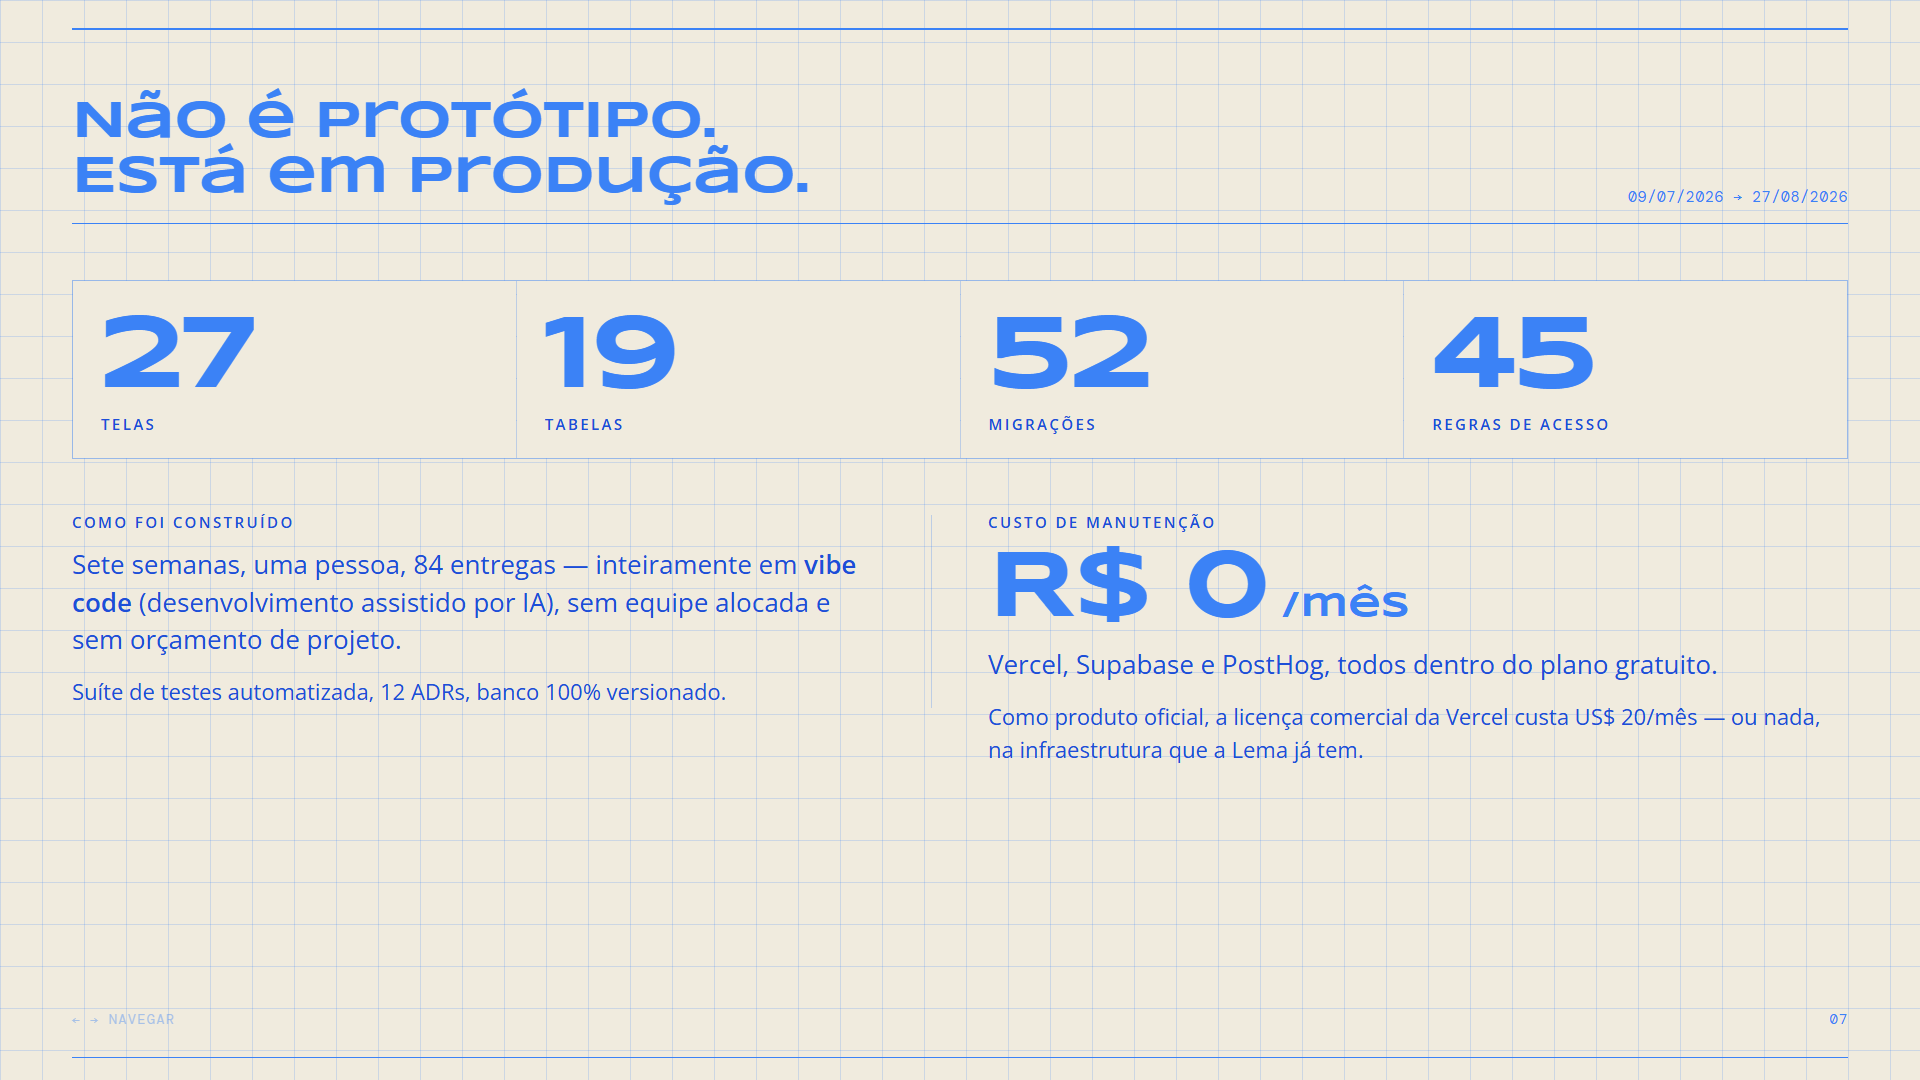
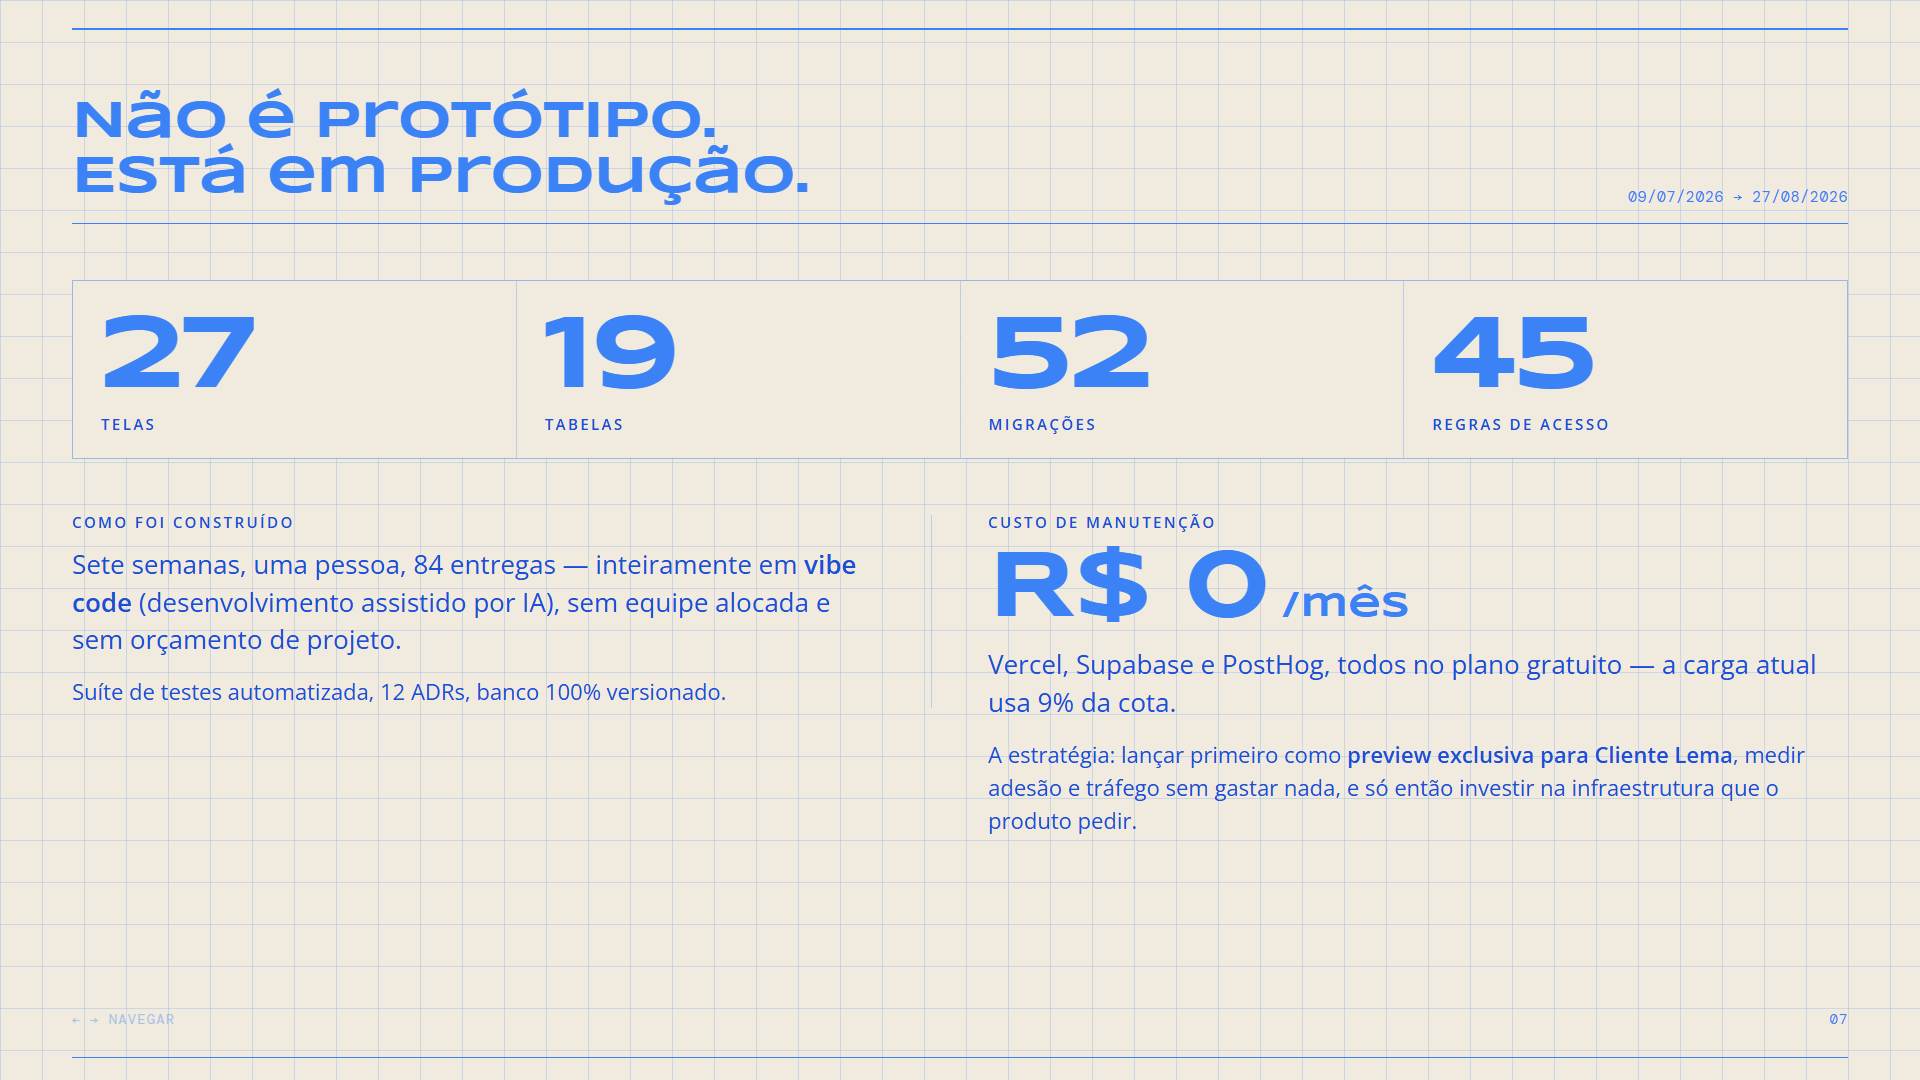
feat(news): expurgo de notícias + pitch com estratégia de preview Cliente Lema
- purge_old_news(retention_days=180): migration 20260828000002. A `news`
  ingere 8 fontes de hora em hora e sem expurgo estouraria os 500 MB do
  free tier. news-ingest chama a cada rodada (RPC, só service_role).
- pitch (slide 15) e pitch-resumo (slide 7): mantém "R$ 0/mês" e passa a
  enquadrar o lançamento como preview exclusiva para Cliente Lema — medir
  adesão sem custo e só então dimensionar a infraestrutura.

Claude-Session: https://claude.ai/code/session_01XMrGMfr3U4VcqeAkZnVt3g

Changed region(s): [[0.5, 0.6111, 0.9375, 0.7639]]

diff --git a/docs/pitch/radar-lema-pitch-resumo.html b/docs/pitch/radar-lema-pitch-resumo.html
@@ -726,9 +726,11 @@ body.editing [contenteditable="true"]:focus { outline: 1.5px solid var(--ink); }
             <div>
                 <p class="micro" style="margin-bottom:16px">Custo de manutenção</p>
                 <p class="numeral" style="font-size:96px">R$&nbsp;0<span style="font-size:34px;letter-spacing:0"> /mês</span></p>
-                <p class="lede" style="margin-top:12px">Vercel, Supabase e PostHog, todos dentro do plano gratuito.</p>
-                <p class="body" style="margin-top:16px">Como produto oficial, a licença comercial da Vercel custa US$ 20/mês —
-                   ou nada, na infraestrutura que a Lema já tem.</p>
+                <p class="lede" style="margin-top:12px">Vercel, Supabase e PostHog, todos no plano gratuito — a carga atual usa 9% da cota.</p>
+                <p class="body" style="margin-top:16px">A estratégia: lançar primeiro como
+                   <strong style="font-weight:600">preview exclusiva para Cliente Lema</strong>,
+                   medir adesão e tráfego sem gastar nada, e só então investir na infraestrutura
+                   que o produto pedir.</p>
             </div>
         </div>
     </div>

diff --git a/docs/pitch/radar-lema-pitch.html b/docs/pitch/radar-lema-pitch.html
@@ -1037,9 +1037,10 @@ body.editing [contenteditable="true"]:focus { outline: 1.5px solid var(--ink); }
         </div>
 
         <p class="body rule-solid reveal" style="margin-top:var(--gap-md)">
-            <strong style="font-weight:600">O único custo que pode aparecer:</strong> o plano gratuito da Vercel
-            é licenciado para uso pessoal. Virando produto oficial da Lema, a licença comercial custa
-            <strong style="font-weight:600">US$ 20/mês</strong> — ou nada, hospedando na infraestrutura que a Lema já tem.
+            <strong style="font-weight:600">A estratégia de lançamento:</strong> abrir primeiro como
+            preview exclusiva para <strong style="font-weight:600">Cliente Lema</strong> — medir adesão e
+            tráfego reais sem custo nenhum — e só então dimensionar a infraestrutura que o produto pedir
+            (Supabase Pro, hospedagem na AWS da Lema), com número na mão em vez de estimativa.
         </p>
     </div>
     <span class="pagenum">15</span>

diff --git a/supabase/functions/news-ingest/index.ts b/supabase/functions/news-ingest/index.ts
@@ -446,10 +446,20 @@ Deno.serve(async (req) => {
     });
   }
 
+  // Expurgo: mantém ~6 meses de notícia para não estourar o limite de 500 MB
+  // do banco. `purge_old_news` só é executável pela service_role.
+  let purged = 0;
+  const { data: purgeData, error: purgeError } = await supabase.rpc(
+    "purge_old_news"
+  );
+  if (purgeError) console.error("purge_old_news error", purgeError.message);
+  else if (typeof purgeData === "number") purged = purgeData;
+
   const fetched = feedReport.reduce((acc, feed) => acc + feed.fetched, 0);
 
   return Response.json({
     inserted,
+    purged,
     fetched,
     skipped: Math.max(0, fetched - inserted),
     feeds: feedReport
